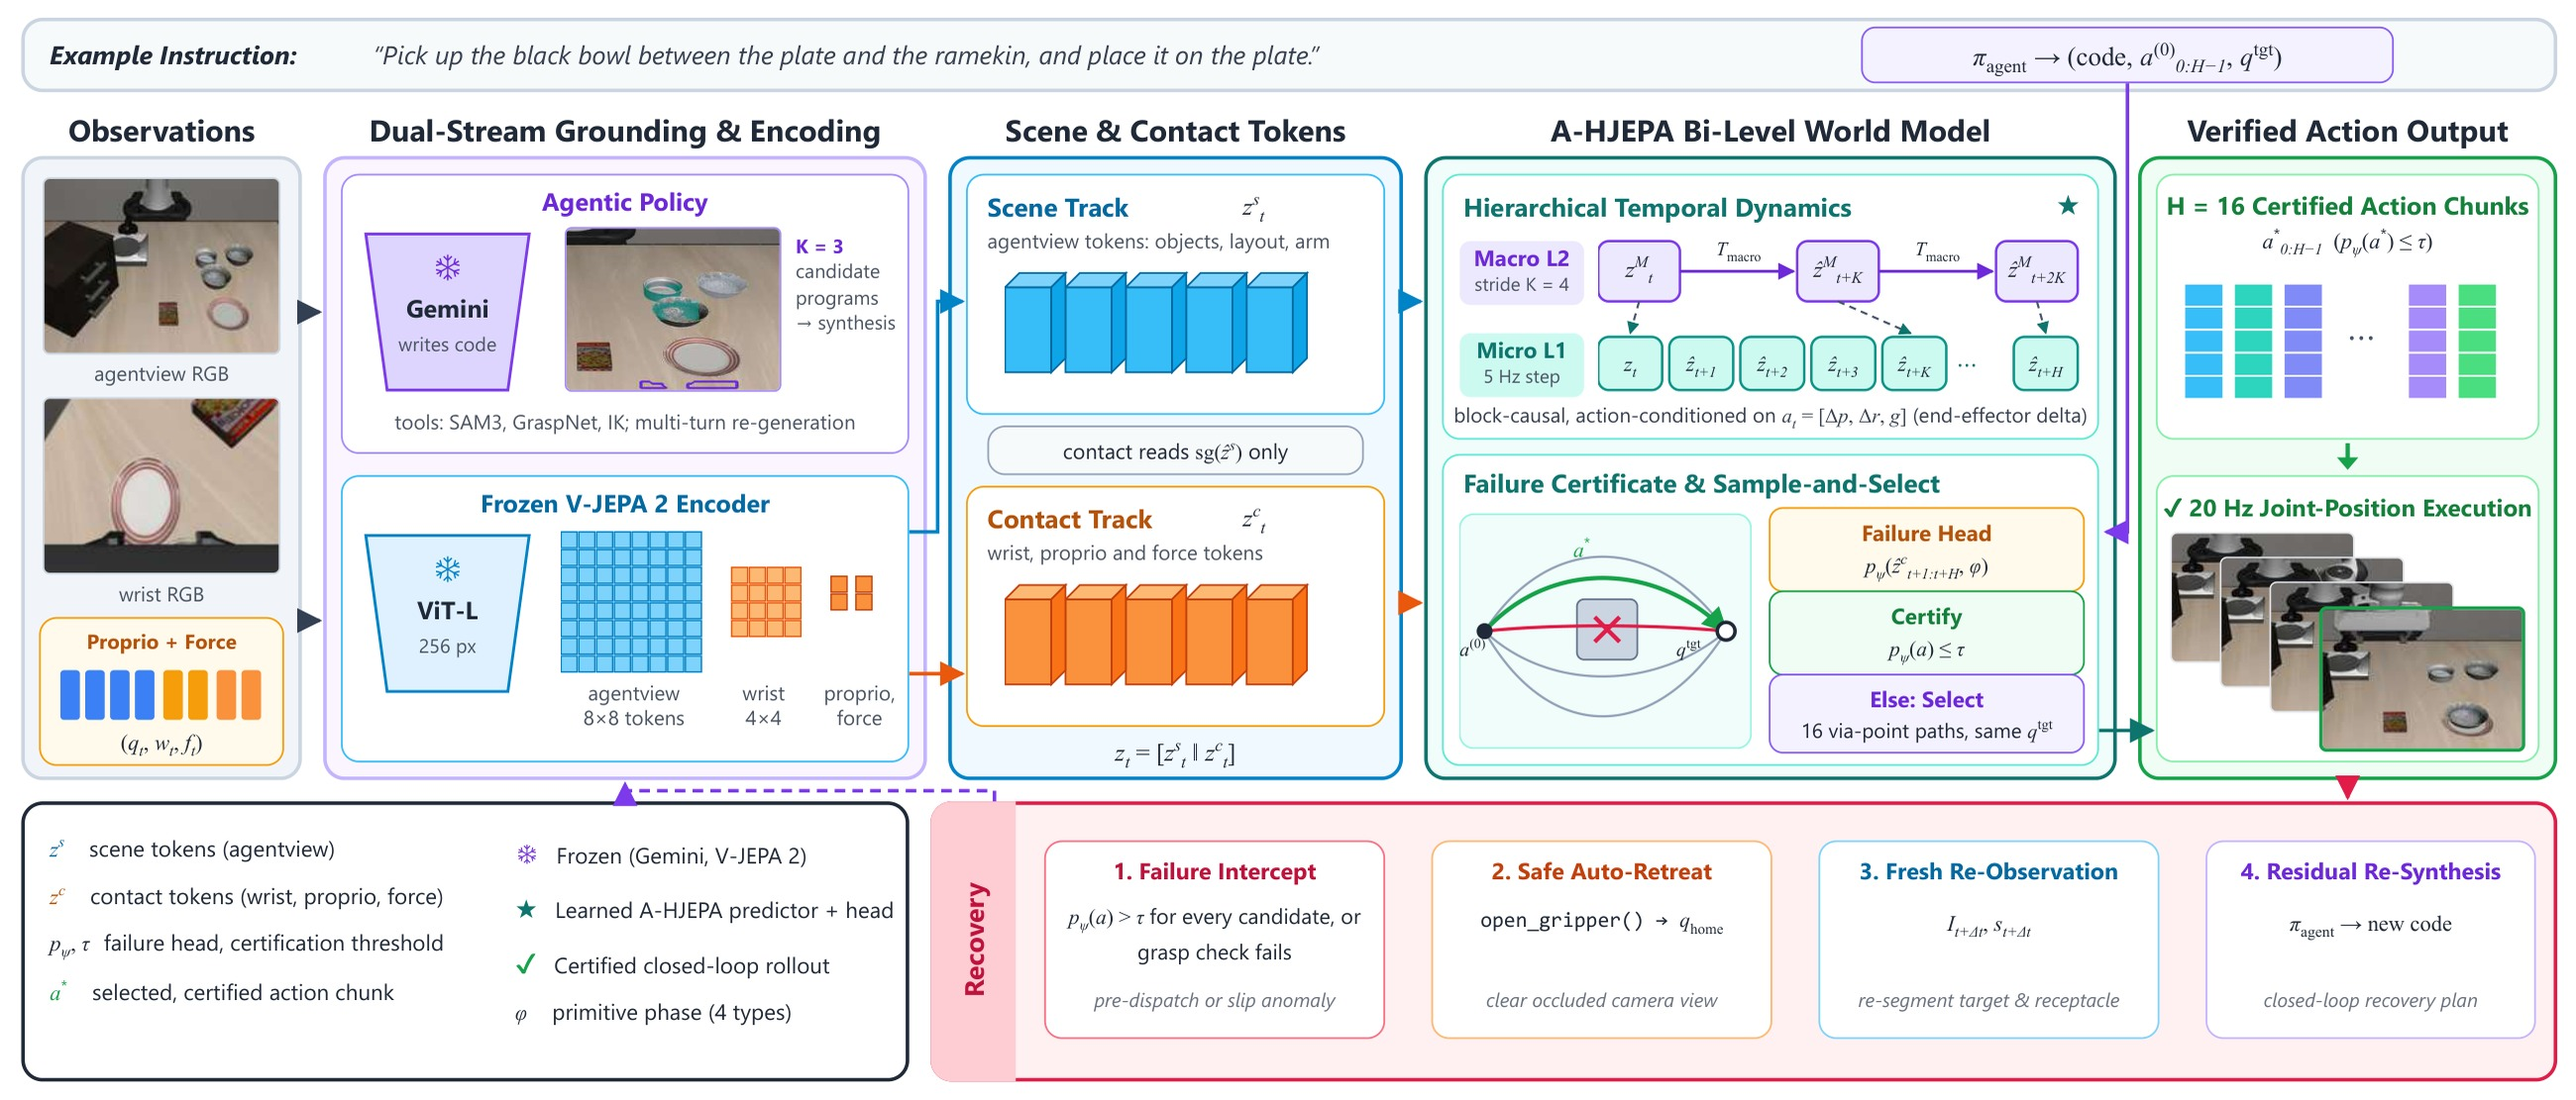
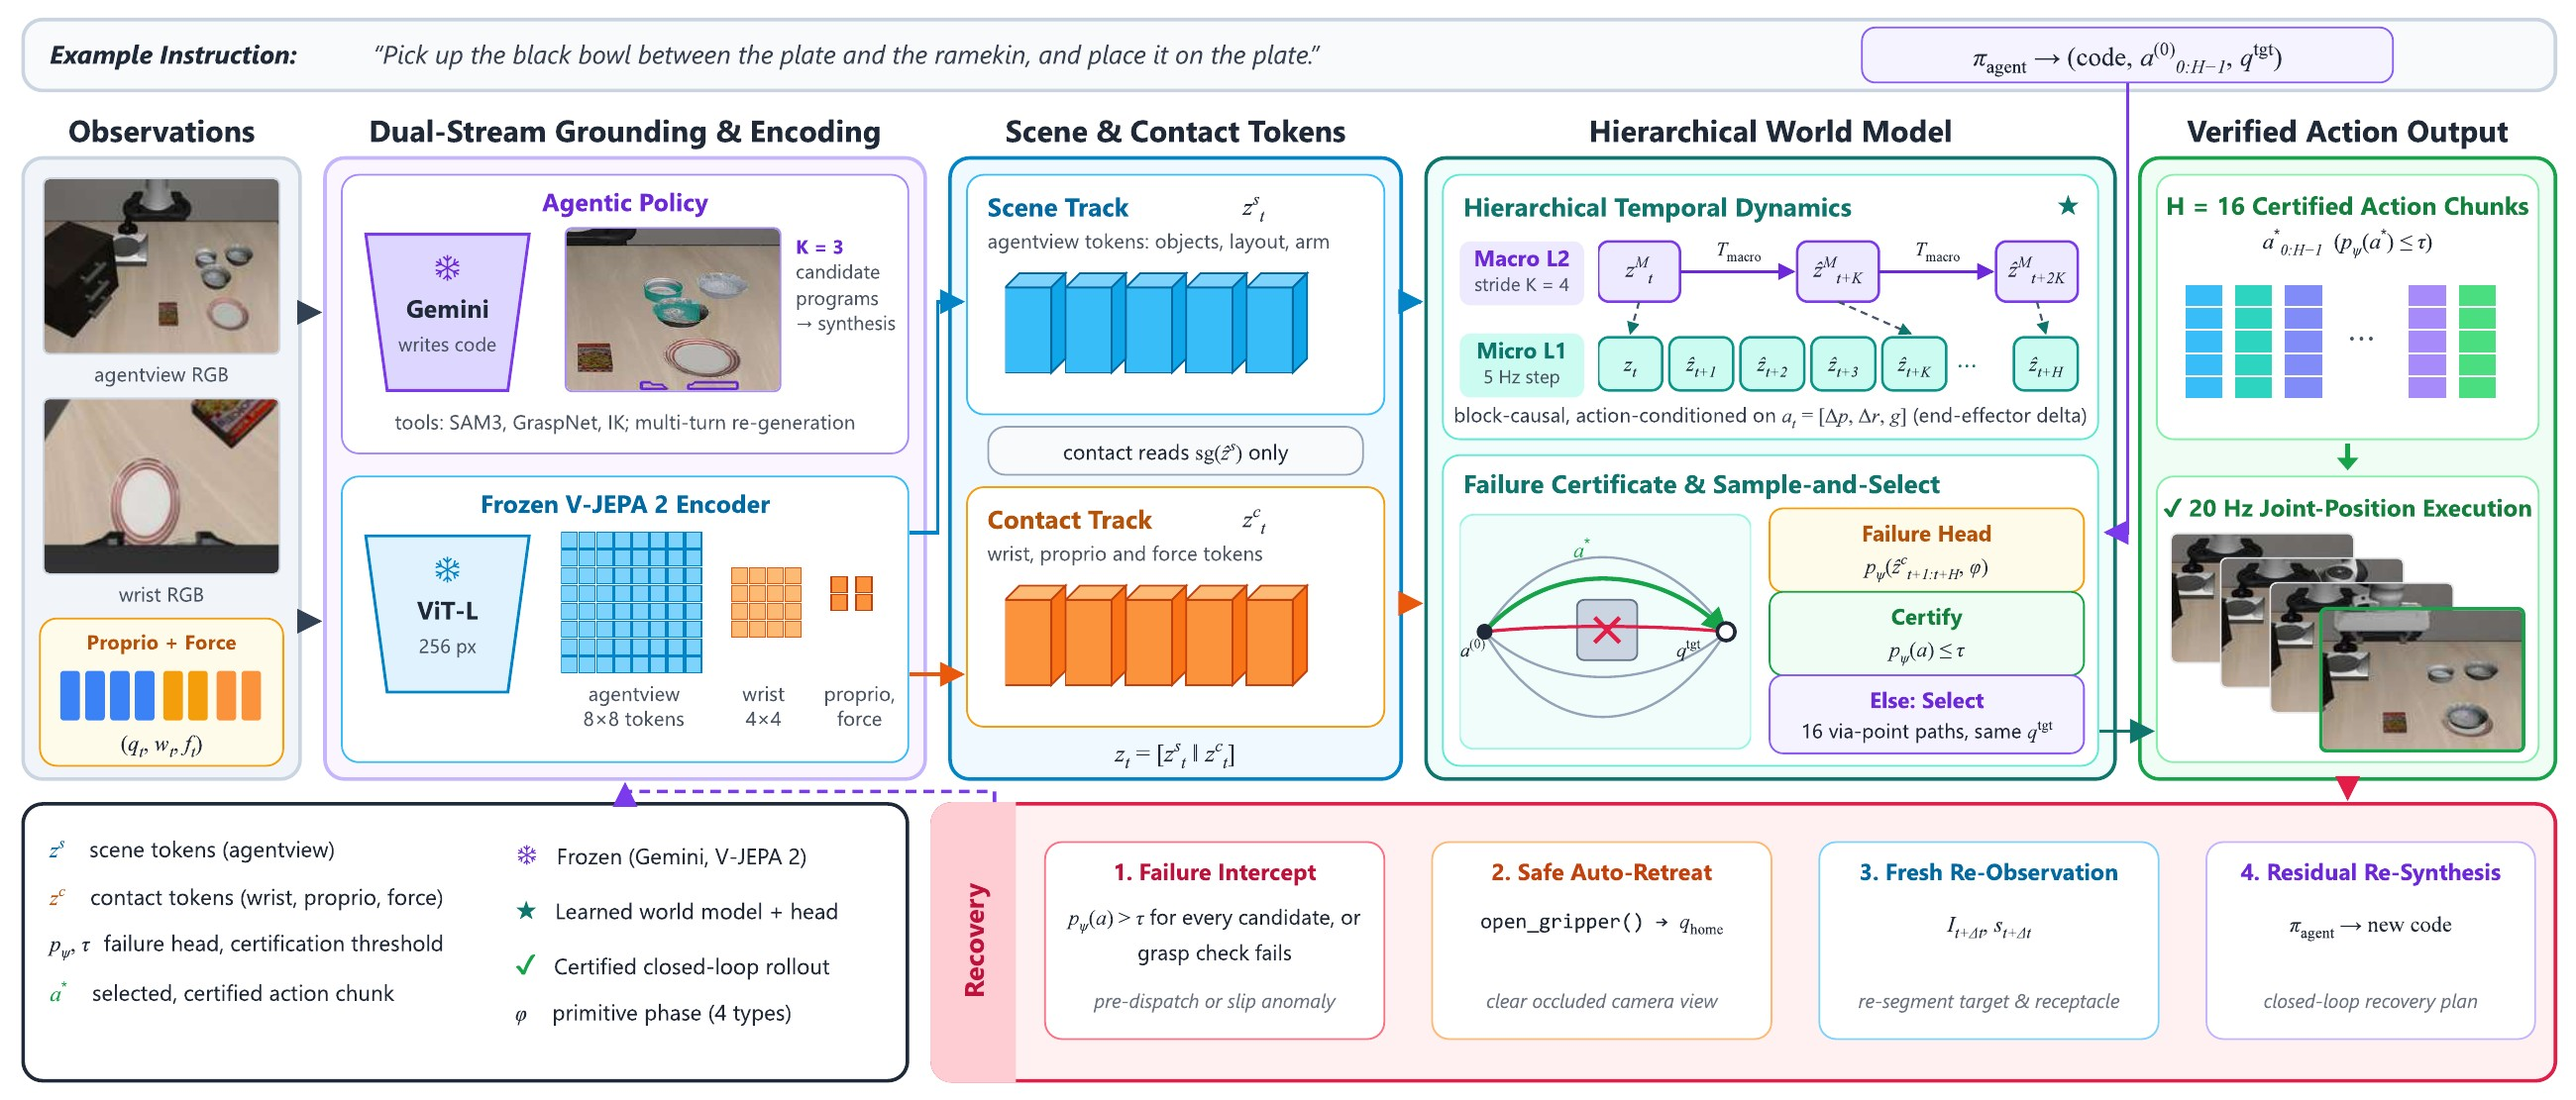
docs: new overview figure (hierarchical world model, frames fixed) and drop the A-HJEPA name

diff --git a/index.html b/index.html
@@ -4,7 +4,7 @@
   <meta charset="utf-8">
   <meta name="viewport" content="width=device-width, initial-scale=1">
   <title>Agentic-LWM: Grounding Multimodal Policies in Hierarchical Latent World Model</title>
-  <meta name="description" content="Agentic-LWM: an Agentic Policy queries an action-conditioned hierarchical JEPA (A-HJEPA) as a physics prior; a failure head on the predicted contact tokens certifies each motion before it acts.">
+  <meta name="description" content="Agentic-LWM: an Agentic Policy queries an action-conditioned hierarchical world model as a physics prior; a failure head on the predicted contact tokens certifies each motion before it acts.">
   <meta name="theme-color" content="#0e7490">
   <link rel="canonical" href="https://physical-super-intelligence.github.io/Agentic-LWM/">
   <meta property="og:type" content="article">
@@ -70,10 +70,10 @@
 
       <figure class="fig" style="margin-top:2.4rem">
         <img src="static/images/framework.jpg" class="zoom" loading="eager" width="2600" height="1111"
-             alt="Agentic-LWM overview: the Agentic Policy, a frozen V-JEPA 2 encoder, scene and contact tokens, the bi-level A-HJEPA world model, the failure certificate with sample-and-select, and verified recovery">
+             alt="Agentic-LWM overview: the Agentic Policy, a frozen V-JEPA 2 encoder, scene and contact tokens, the hierarchical world model, the failure certificate with sample-and-select, and verified recovery">
         <figcaption><b>Agentic-LWM overview.</b> The Agentic Policy (Gemini) writes code that proposes an action chunk and a joint
           goal. A frozen V-JEPA&nbsp;2 encoder turns agentview, wrist, proprioception and force into scene and contact tokens, and
-          the learned bi-level A-HJEPA predicts them at a 5&nbsp;Hz micro step and a stride-4 macro step under end-effector delta
+          the learned hierarchical world model predicts them at a 5&nbsp;Hz micro step and a stride-4 macro step under end-effector delta
           actions. A failure head on the predicted contact tokens certifies the chunk; otherwise sample-and-select keeps the
           via-point path with the lowest failure score toward the same goal. A failure triggers recovery: interception, retreat,
           re-observation and residual re-synthesis.</figcaption>
@@ -99,7 +99,7 @@
   <!-- Method -->
   <section class="band" id="method">
     <div class="wrap">
-      <div class="head"><span class="kicker k2">Method</span><h2>The agent proposes; A-HJEPA predicts, scores and refines</h2></div>
+      <div class="head"><span class="kicker k2">Method</span><h2>The agent proposes; the world model predicts, scores and selects</h2></div>
       <div class="ideas">
         <div class="idea"><span class="n">01</span><h3>Agentic Policy</h3>
           <p>Gemini writes the robot program with perception and motion tools (SAM3, GraspNet, IK), merges three candidate
@@ -107,7 +107,7 @@
         <div class="idea"><span class="n">02</span><h3>Scene and contact tokens</h3>
           <p>A frozen V-JEPA&nbsp;2 encoder turns the agentview and wrist cameras into tokens, joined by proprioception and
             force. Scene tokens carry objects, layout and arm; contact tokens carry wrist, proprioception and force.</p></div>
-        <div class="idea"><span class="n">03</span><h3>Bi-level A-HJEPA</h3>
+        <div class="idea"><span class="n">03</span><h3>Hierarchical world model</h3>
           <p>A block-causal predictor rolls the tokens forward at a 5&nbsp;Hz micro step and a stride-4 macro step under
             end-effector delta actions, and predicts contact from the stop-gradient predicted scene.</p></div>
         <div class="idea"><span class="n">04</span><h3>Failure certificate, sample-and-select, recovery</h3>

diff --git a/README.md b/README.md
@@ -5,8 +5,8 @@ Project page: <https://physical-super-intelligence.github.io/Agentic-LWM/> (in p
 ![Agentic-LWM overview](static/images/framework.jpg)
 
 Agentic-LWM is a dual-system framework in which an Agentic Policy (Gemini writing robot code) queries an
-action-conditioned hierarchical joint-embedding predictive architecture (A-HJEPA) as a physics prior. A frozen V-JEPA 2
-encoder turns the agentview and wrist cameras, proprioception and force into scene and contact tokens; A-HJEPA rolls them
+action-conditioned hierarchical world model as a physics prior. A frozen V-JEPA 2
+encoder turns the agentview and wrist cameras, proprioception and force into scene and contact tokens; the world model rolls them
 forward at a 5 Hz micro step and a stride-4 macro step under end-effector delta actions. Before actuation a failure head
 on the predicted contact tokens certifies each action chunk; otherwise sample-and-select keeps the via-point path with the
 lowest failure score toward the same goal.
